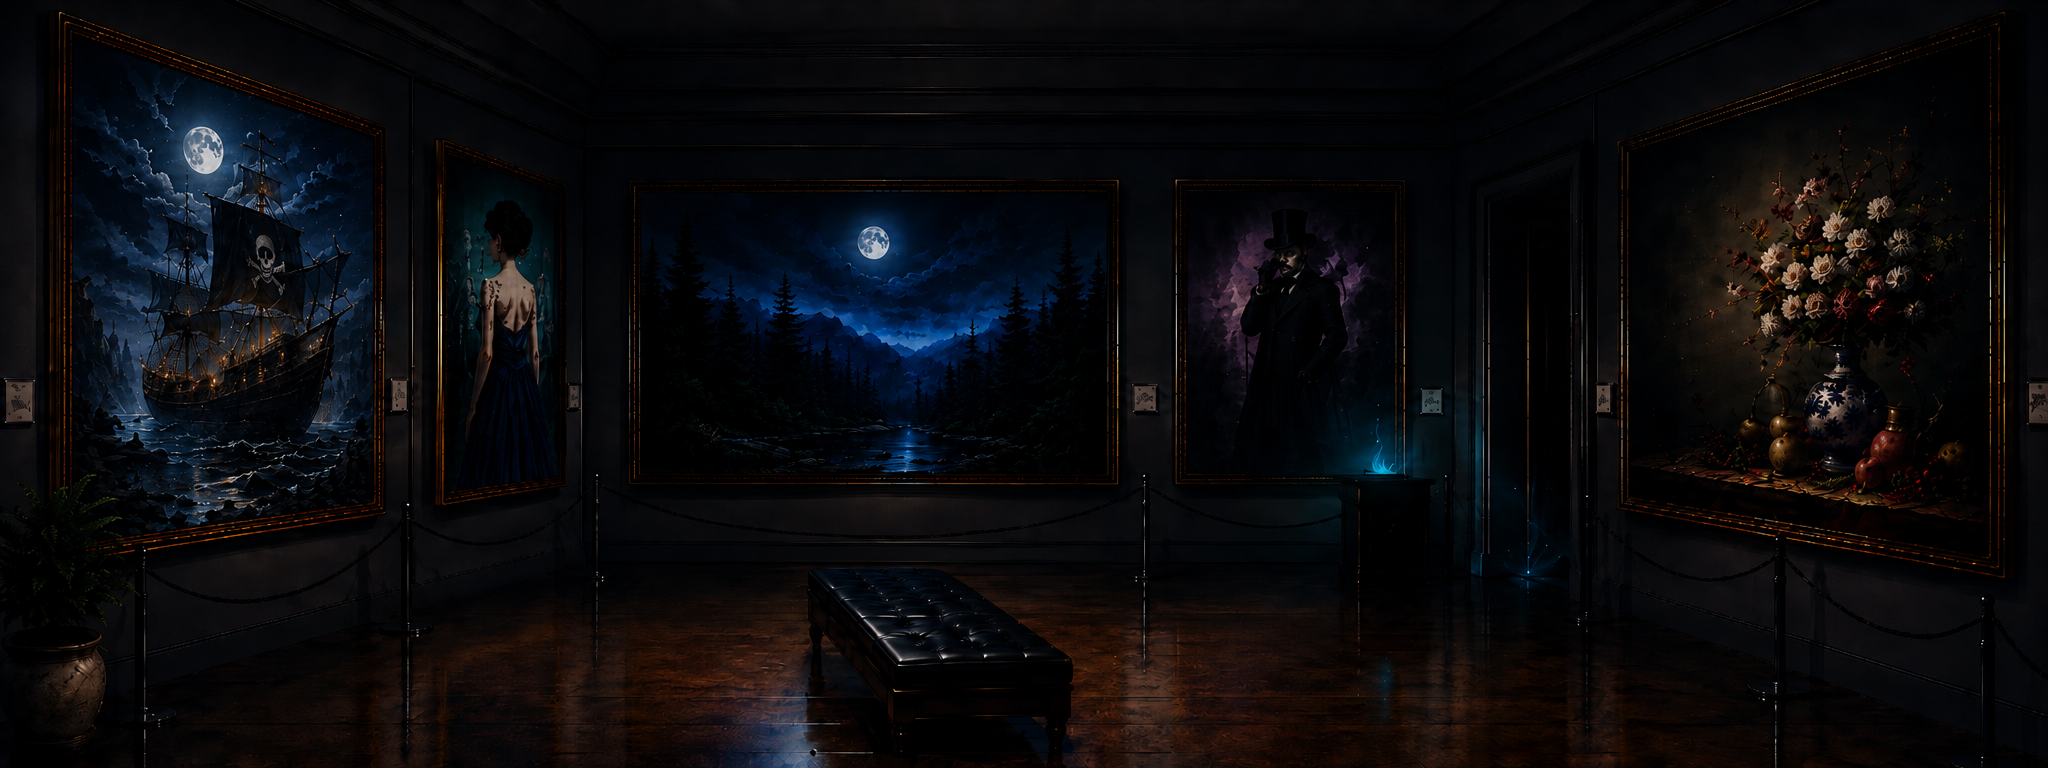
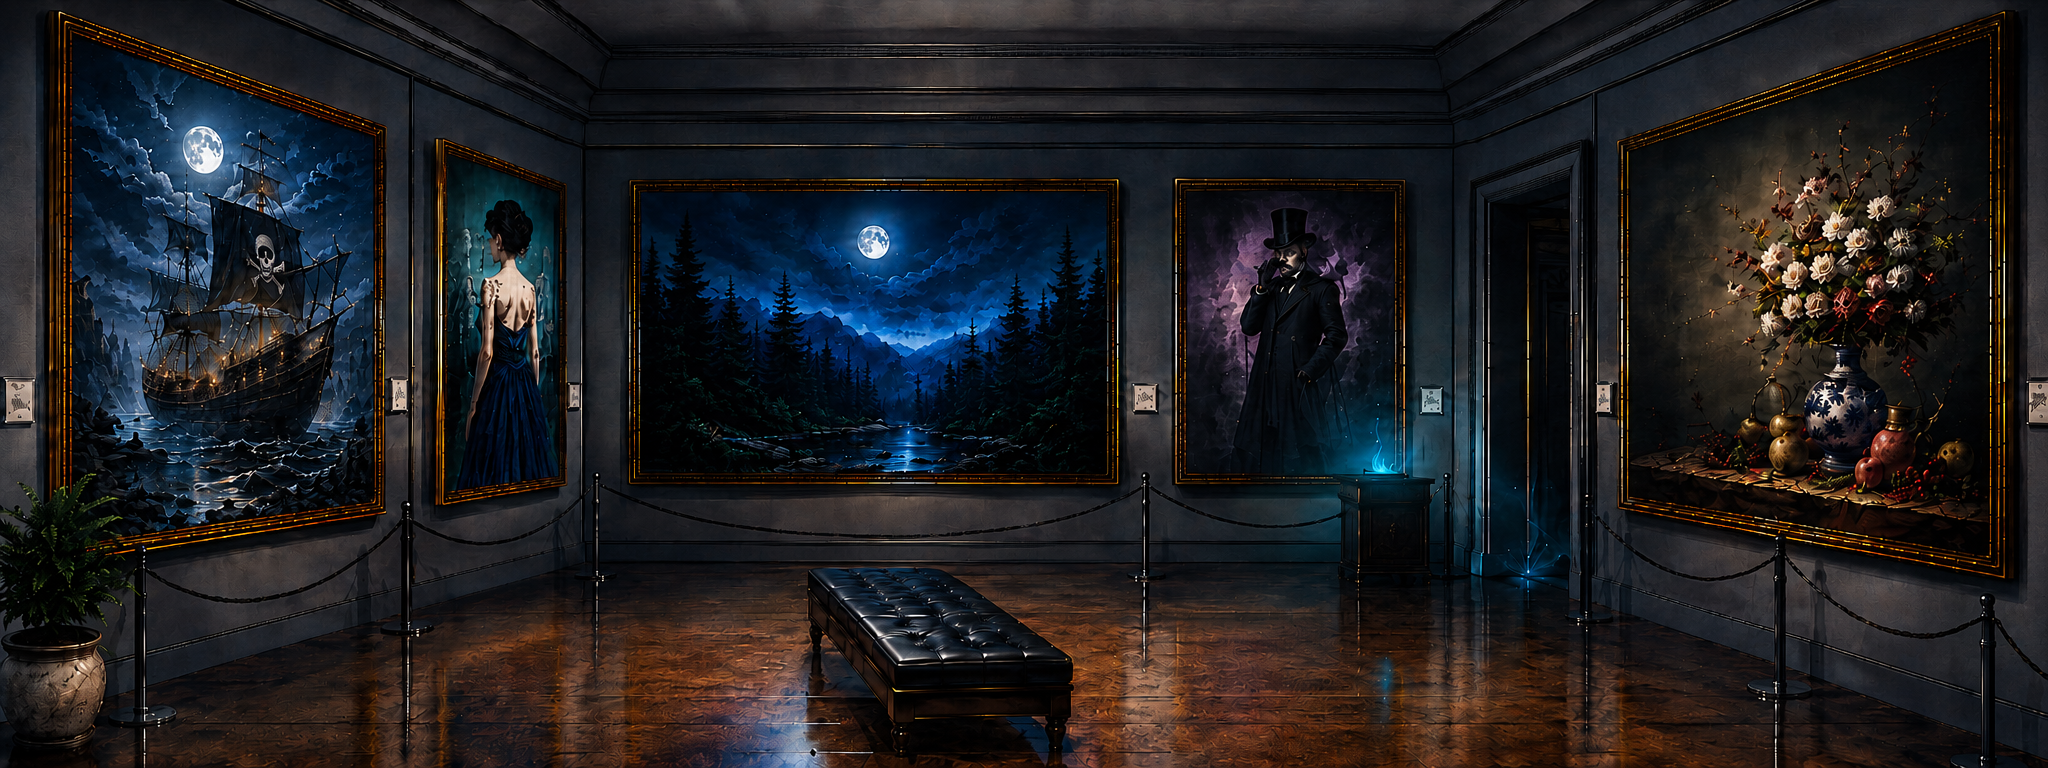
update image

diff --git a/configs/quickshell/gallery-transition/shell.qml b/configs/quickshell/gallery-transition/shell.qml
@@ -51,6 +51,9 @@ ShellRoot {
   }
 
   function wallpaperImage(ws) {
+    if (ws >= 1 && ws <= 6)
+      return "$HOME/.config/quickshell/gallery-transition/painting-" + String(ws) + ".png";
+
     return "$HOME/.config/quickshell/gallery-transition/gallery.png";
   }
 
